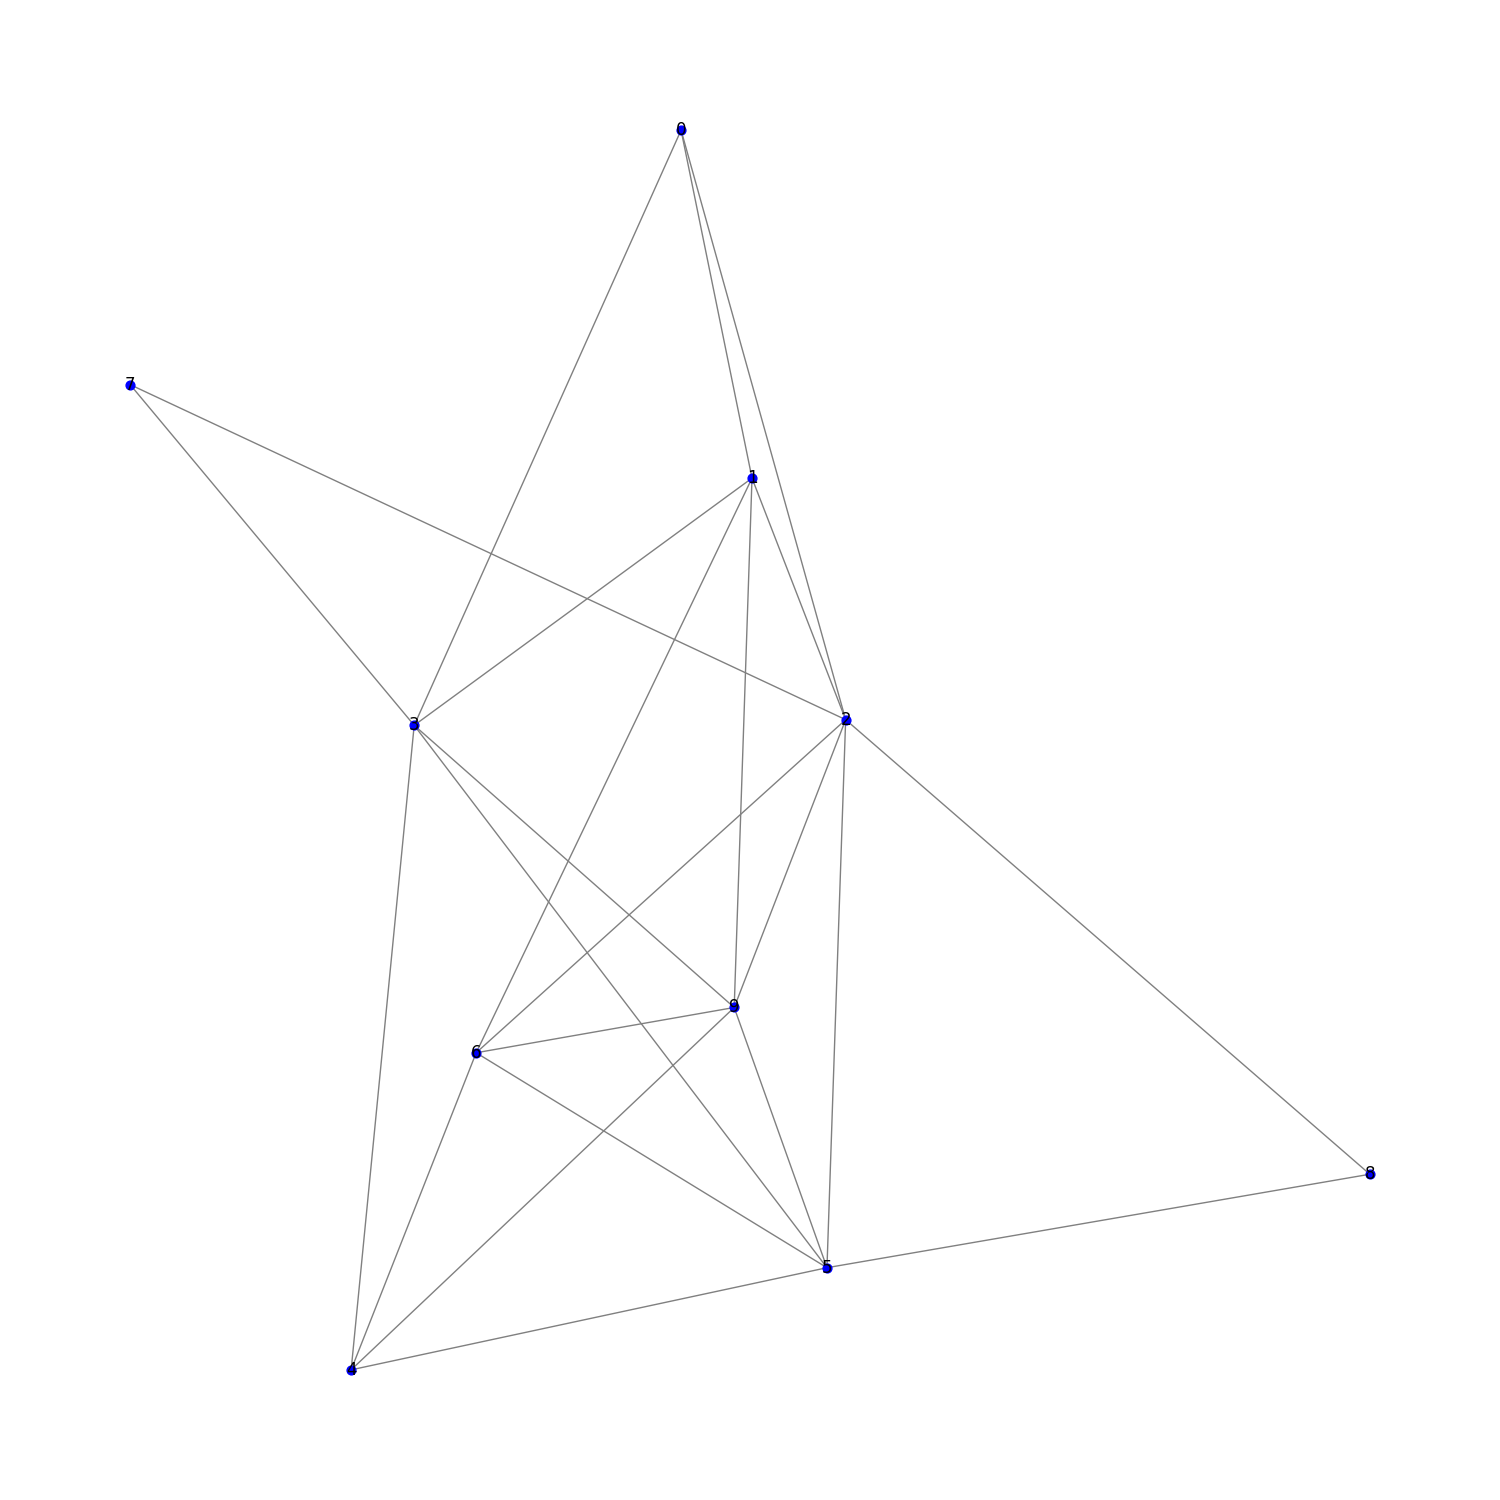
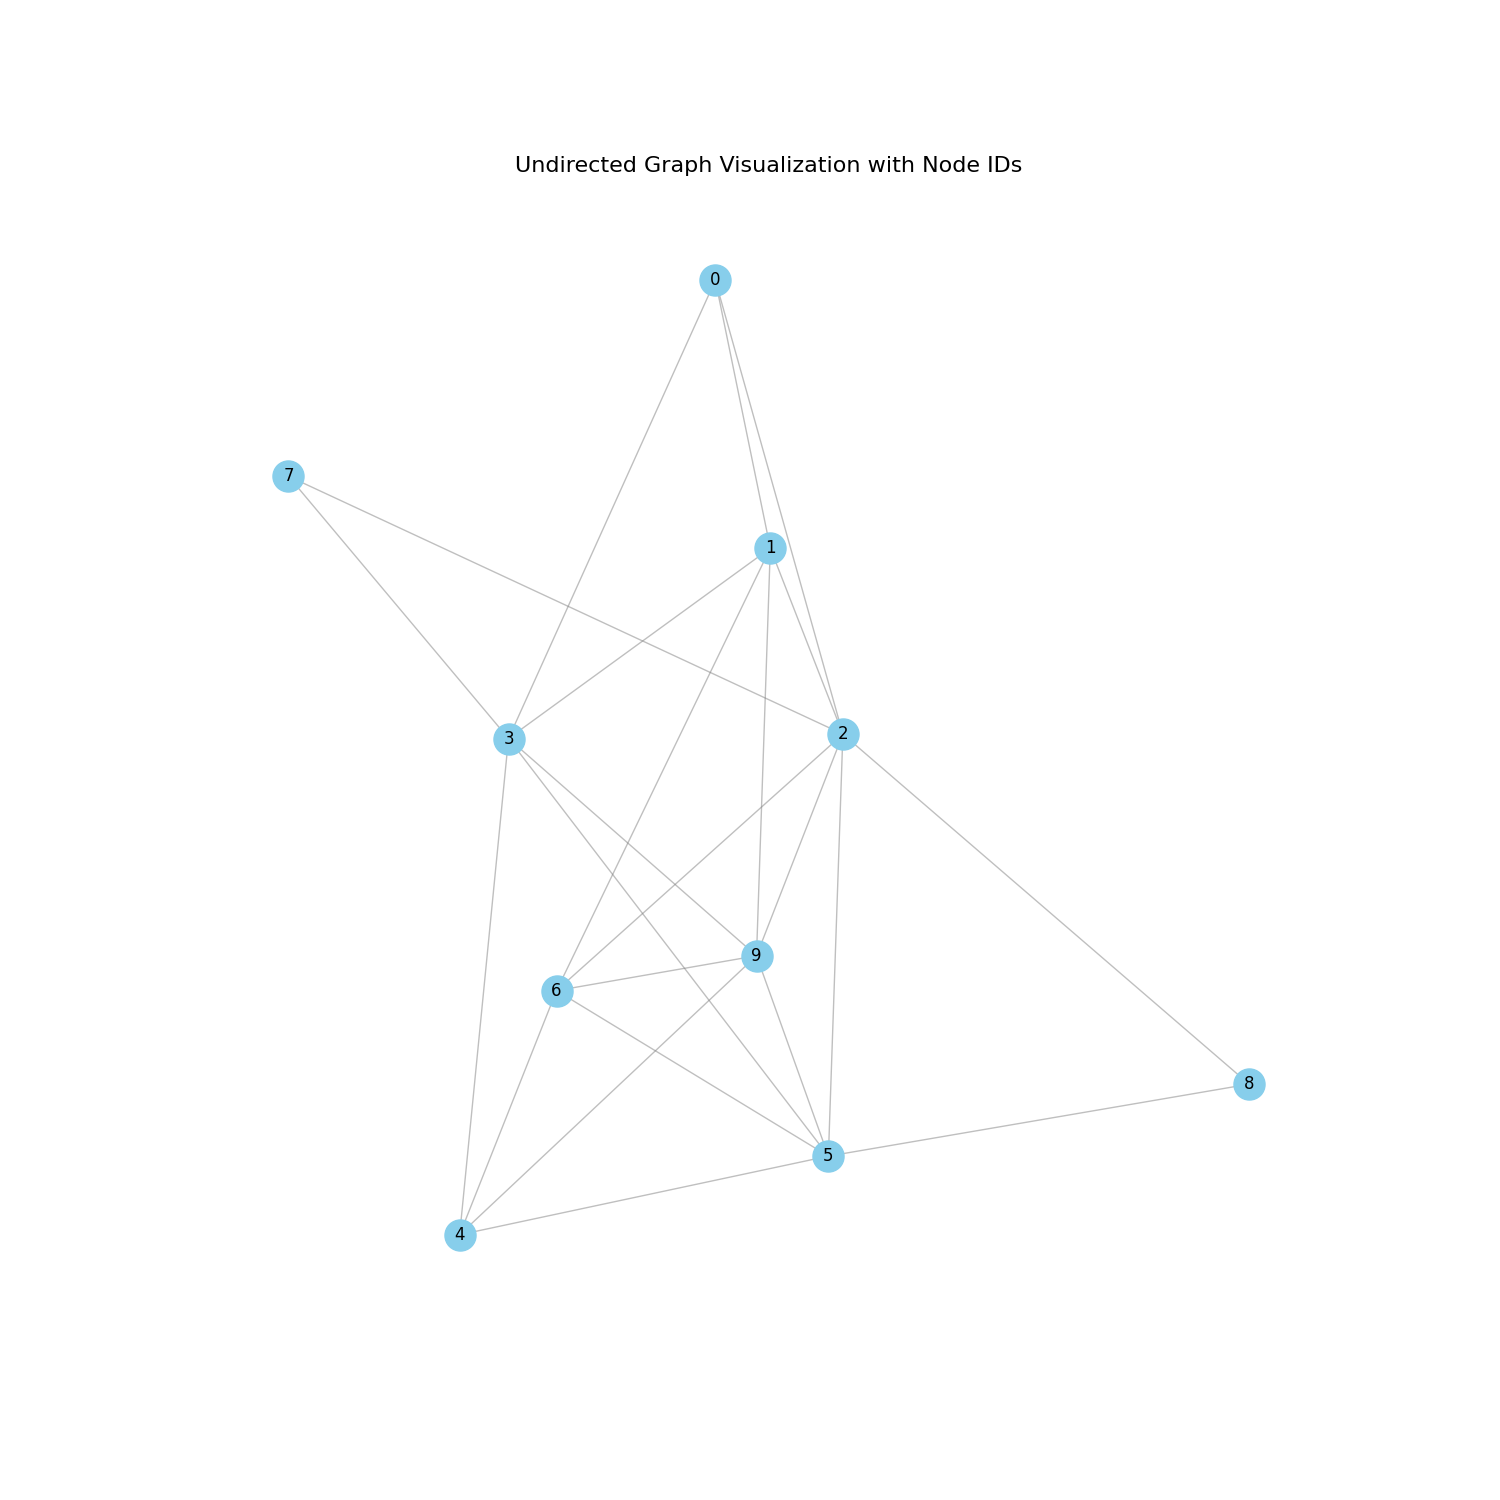
init a Graph and Node cass and improve a Visualization of the plot

diff --git a/neighborhood_anonymization.py b/neighborhood_anonymization.py
@@ -1,73 +1,65 @@
-import pandas as pd
-import networkx as nx
+import csv
 
-# Load the CSV file to inspect its contents
-file_path = 'test.csv'
-df = pd.read_csv(file_path)
-
-# Display the first few rows to understand its structure
-df.head()
-
-# Create an undirected graph from the CSV data
-G = nx.Graph()
-
-# Add edges to the graph from the CSV file
-for index, row in df.iterrows():
-    G.add_edge(row['id_1'], row['id_2'])
-    G.nodes[row['id_1']]['name'] = row['name']
+class Node:
+    def __init__(self, node_id, label):
+        self.node_id = node_id
+        self.label = label
+        self.visited = False
+        self.edges = []  # List to store connected node IDs
+        
+    def addEdge(self, neighbor_id):
+        if neighbor_id not in self.edges:  # Avoid duplicate edges
+            self.edges.append(neighbor_id)
     
-# Let's display the graph to understand its structure
+    def isNeighbor(self, neighbor_id):
+        return neighbor_id in self.edges
 
-for node in G.nodes(data=True):
-    print(f"Node: {node[0]}, Name: {node[1].get('name', 'N/A')}")
+    def __repr__(self):
+        return f"Node(id={self.node_id}, label={self.label}, edges={self.edges})"
 
-print(G.edges())
-
-# # Step 1: Sort vertices based on their degree (number of neighbors)
-# vertex_list = sorted(G.nodes(), key=lambda v: len(list(G.neighbors(v))), reverse=True)
-
-# # Initialize list to track anonymization status
-# anonymized = {node: False for node in G.nodes()}
-
-# # Define the anonymization function (this is a placeholder for now)
-# def anonymize_neighbors(vertex_set):
-#     # This function can be expanded with specific anonymization logic for neighbors
-#     for v in vertex_set:
-#         anonymized[v] = True
-
-# # Placeholder for cost calculation (you can define this based on your algorithm)
-# def calculate_cost(v1, v2):
-#     # Simplified placeholder cost function based on the number of common neighbors
-#     common_neighbors = set(G.neighbors(v1)).intersection(G.neighbors(v2))
-#     return len(common_neighbors)
-
-# # Apply anonymization algorithm
-# k = 3  # Placeholder for anonymization requirement (k-anonymity)
-# alpha, beta, gamma = 1, 1, 1  # Placeholder cost function parameters
-
-# # Initialize an empty anonymized graph
-# G_0 = G.copy()
-
-# while vertex_list:
-#     # Step 5: Select the seed vertex (first in the sorted list)
-#     seed_vertex = vertex_list.pop(0)
+class Graph:
+    def __init__(self):
+        self.V = []  # List of vertices (Node objects)
     
-#     # Step 6: Calculate cost for each remaining vertex in the list
-#     costs = {v: calculate_cost(seed_vertex, v) for v in vertex_list if not anonymized[v]}
-    
-#     # Step 8: Select the k-1 smallest cost vertices if the remaining list size >= 2k - 1
-#     if len(vertex_list) >= 2 * k - 1:
-#         candidate_set = sorted(costs, key=costs.get)[:k-1]
-#     else:
-#         candidate_set = [v for v in vertex_list if not anonymized[v]]
-    
-#     # Step 11: Anonymize neighbors of the seed and candidate vertices
-#     anonymize_neighbors([seed_vertex] + candidate_set)
-    
-#     # Step 12: For remaining candidates, anonymize their neighbors
-#     for j in range(1, len(candidate_set)):
-#         anonymize_neighbors([candidate_set[j]] + [seed_vertex] + candidate_set[:j])
+    def addVertex(self, node: Node):
+        self.V.append(node)
 
-# # Display the anonymized graph
-# anonymized_nodes = [node for node, status in anonymized.items() if status]
-# anonymized_nodes
+    def getNode(self, node_id):
+        for node in self.V:
+            if node.node_id == node_id:
+                return node
+        return None
+
+def main():
+    # Load the CSV file
+    file_path = 'test.csv'
+    graph = Graph()
+
+    with open(file_path, mode='r') as file:
+        csv_reader = csv.reader(file)
+        next(csv_reader)  # Skip the header row
+        for row in csv_reader:
+            id_1, id_2, label = int(row[0]), int(row[1]), row[2]
+            
+            # Handle the first node
+            node1 = graph.getNode(id_1)
+            if node1 is None:
+                node1 = Node(id_1, label)
+                graph.addVertex(node1)
+            
+            # Handle the second node
+            node2 = graph.getNode(id_2)
+            if node2 is None:
+                node2 = Node(id_2, label)
+                graph.addVertex(node2)
+            
+            # Add edges
+            node1.addEdge(id_2)
+            node2.addEdge(id_1)
+
+    # Output the nodes and their connections
+    for node in graph.V:
+        print(node)
+
+if __name__ == "__main__":
+    main()

diff --git a/plot_graph.py b/plot_graph.py
@@ -1,7 +1,6 @@
 import networkx as nx
 import matplotlib.pyplot as plt
 import pandas as pd
-import os
 import csv
 
 # Define the path to your CSV file
@@ -22,7 +21,6 @@ with open(csv_file_path, mode='r') as file:
         data["id_1"].append(row[0])
         data["id_2"].append(row[1])
 
-
 # Create a DataFrame from the data
 df = pd.DataFrame(data)
 
@@ -32,13 +30,14 @@ G = nx.from_pandas_edgelist(df, "id_1", "id_2")
 # Draw the graph
 plt.figure(figsize=(15, 15))
 pos = nx.spring_layout(G, seed=42)  # Spring layout for better visualization
-nx.draw(
-    G,
-    pos,
-    with_labels=True,
-    node_size=40,
-    edge_color="gray",
-    node_color="blue"
-)
-plt.title("Undirected Graph Visualization")
+
+# Draw nodes and edges with improved visualization
+nx.draw_networkx_nodes(G, pos, node_size=500, node_color="skyblue")
+nx.draw_networkx_edges(G, pos, edge_color="gray", alpha=0.5)
+nx.draw_networkx_labels(G, pos, font_size=12, font_color="black")
+
+# Set title and save the graph
+plt.title("Undirected Graph Visualization with Node IDs", fontsize=16)
+plt.axis("off")  # Hide the axes for a cleaner look
 plt.savefig("out.png")
+plt.show()
